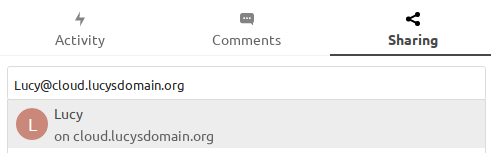
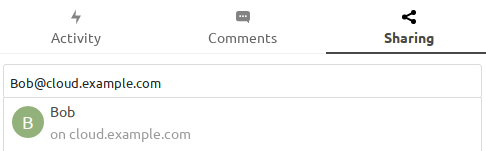
changed dummy domain to example.com

diff --git a/user_manual/files/sharing.rst b/user_manual/files/sharing.rst
@@ -20,7 +20,7 @@ Public link shares
 
 You can share files and folders via public links.
 
-A random 15-digit token will be created. The link will look like ``https://cloud.mydomain.org/s/yxcFKRWBJqYYzp4``.
+A random 15-digit token will be created. The link will look like ``https://cloud.example.com/s/yxcFKRWBJqYYzp4``.
 
 A number of options are available for public *folder* shares:
 
@@ -97,7 +97,7 @@ Federation sharing is enabled by default. Follow these steps to create a new sha
 Go to your ``Files`` page and click the Share icon on the file or directory 
 you want to share. In the sidebar enter the username and URL of the remote user
 in this form: ``<username>@<nc-server-url>``. In this example, that is
-``Lucy@cloud.lucysdomain.org``.
+``bob@cloud.example.com``.
 
 .. figure:: ../images/share-federation-1.png
 
